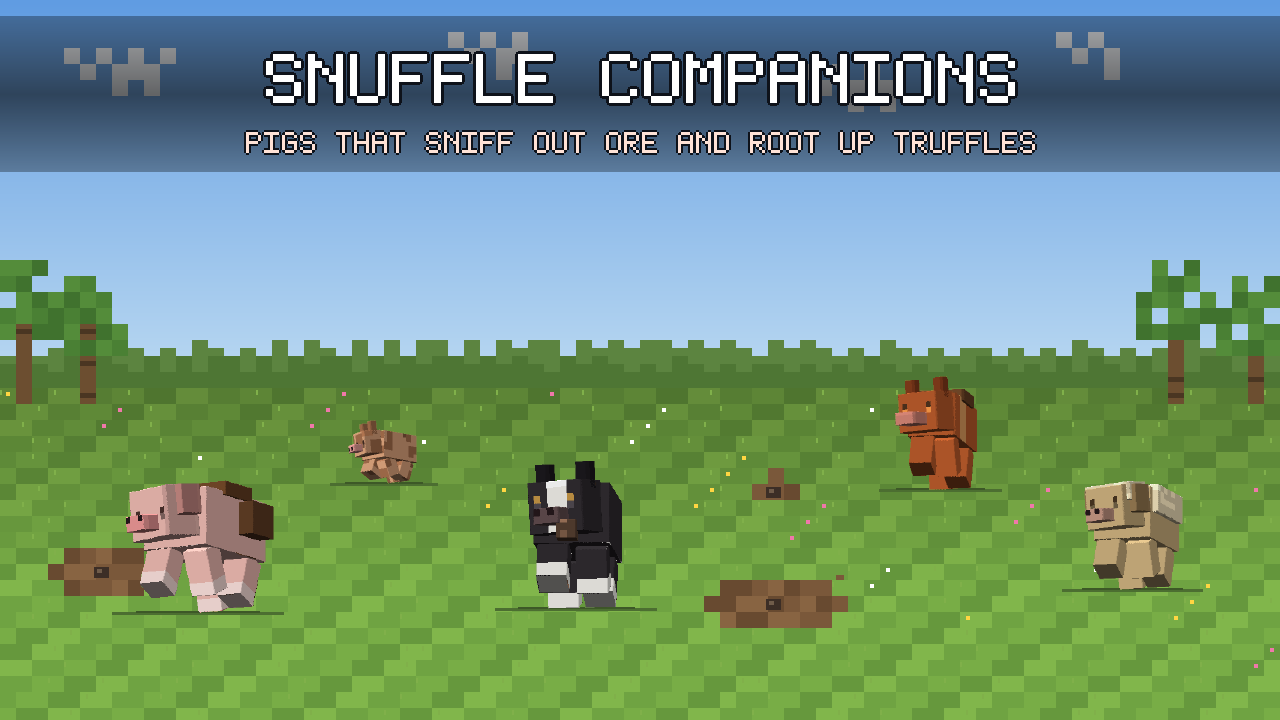
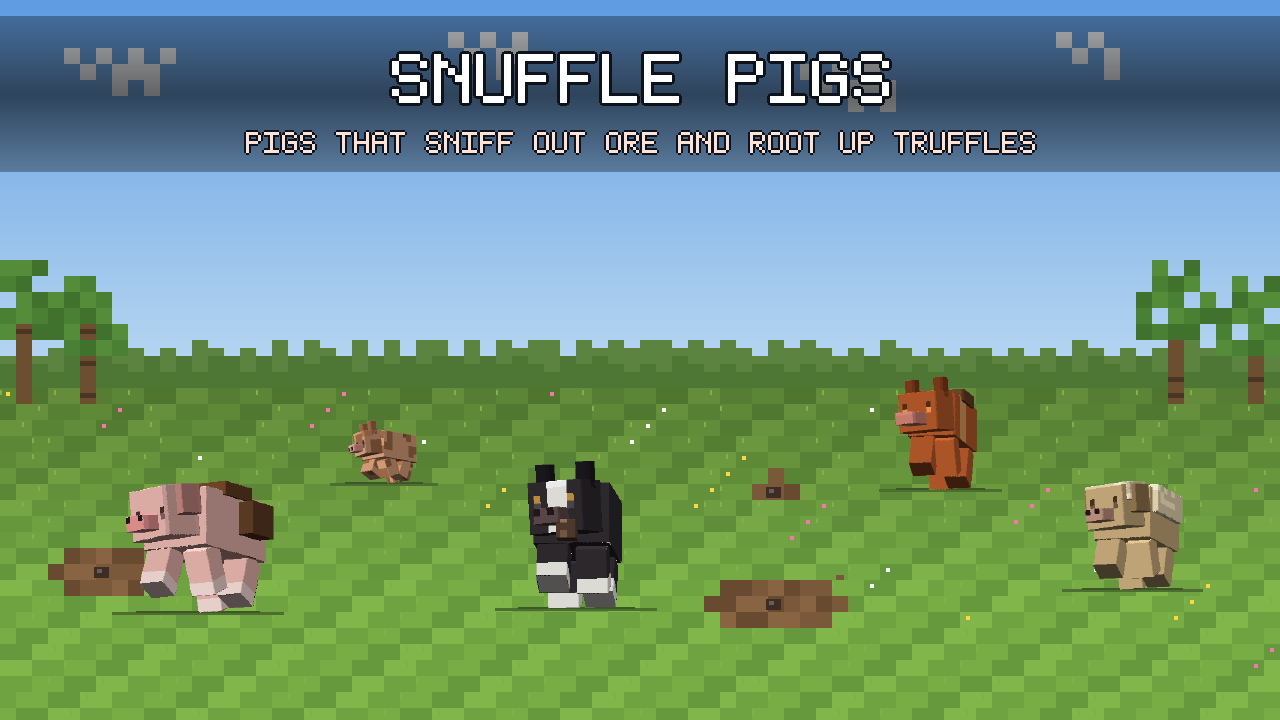
v1.1.0: paketet heter Snuffle Pigs
Det hette Snuffle Companions i spelet och Snuffle Pigs i butiken, och
en sak ska inte ha två namn. Bytt: manifestens namn, hjältebildens
ordmärke, sajtens titel och rubrik, README och butikstexten.

Mapparna, git-repot och domänen behåller sina namn med flit — inget av
det syns för en spelare, och att byta dem hade rört varenda
verktygssökväg och brutit befintliga länkar för noll vinst.

Två ställen hade namnet hårdkodat och hade överlevt bytet tyst:
.mcaddon-filnamnet (butiken hade visat en fil med det gamla namnet) och
testets kontroll av att paketet laddats — den hade rapporterat 'paketet
laddades INTE' om en frisk körning. Båda läser manifestet nu.

Changed region(s): [[0.1875, 0.0611, 0.5625, 0.1528], [0.5938, 0.0611, 0.8125, 0.1528]]

diff --git a/site/index.html b/site/index.html
@@ -1,8 +1,8 @@
 <!DOCTYPE html><html lang="en"><head><meta charset="utf-8">
 <meta name="viewport" content="width=device-width,initial-scale=1">
-<title>Snuffle Companions — Minecraft Bedrock add-on</title>
+<title>Snuffle Pigs — Minecraft Bedrock add-on</title>
 <meta name="description" content="Five hand-made pigs for Minecraft Bedrock. They sniff out ore through solid rock, root up truffles and carry you — with steering that actually works.">
-<meta property="og:title" content="Snuffle Companions">
+<meta property="og:title" content="Snuffle Pigs">
 <meta property="og:description" content="Five hand-made pigs for Minecraft Bedrock — they smell ore through rock, dig up truffles and can be ridden properly.">
 <meta property="og:image" content="logo.png">
 <link rel="icon" type="image/png" href="favicon.png">
@@ -42,8 +42,8 @@ footer a{color:#e0a992}
 </style></head><body><div class="w">
 
 <header>
-<img class="logga" src="logo.png" alt="Snuffle Companions">
-<h1>Snuffle Companions</h1>
+<img class="logga" src="logo.png" alt="Snuffle Pigs">
+<h1>Snuffle Pigs</h1>
 <p class="tag">Five hand-made pigs for Minecraft Bedrock</p>
 </header>
 

diff --git a/tools/make_promo.py b/tools/make_promo.py
@@ -178,8 +178,8 @@ def ordmarke(img):
             m = 0.40 + 0.34 * (1 - k)
             img[y][x] = (int(p[0] * m), int(p[1] * m), int(p[2] * m), 255)
     for dx, dy in ((-3, 0), (3, 0), (0, -3), (0, 3), (-2, -2), (2, -2), (-2, 2), (2, 2)):
-        mv.text(img, "SNUFFLE COMPANIONS", W // 2 + dx, 54 + dy, 7, (14, 18, 26, 255))
-    mv.text(img, "SNUFFLE COMPANIONS", W // 2, 54, 7, (255, 255, 255, 255))
+        mv.text(img, "SNUFFLE PIGS", W // 2 + dx, 54 + dy, 7, (14, 18, 26, 255))
+    mv.text(img, "SNUFFLE PIGS", W // 2, 54, 7, (255, 255, 255, 255))
     for dx, dy in ((-2, 0), (2, 0), (0, -2), (0, 2)):
         mv.text(img, "PIGS THAT SNIFF OUT ORE AND ROOT UP TRUFFLES",
                 W // 2 + dx, 132 + dy, 3, (14, 18, 26, 255))

diff --git a/CHANGELOG.md b/CHANGELOG.md
@@ -1,5 +1,25 @@
 # Ändringar
 
+## 1.1.0 — 2026-08-27
+
+Paketet heter **Snuffle Pigs** nu, samma namn som på CurseForge. Det hette
+"Snuffle Companions" i spelet och "Snuffle Pigs" i butiken, och en sak ska inte
+ha två namn.
+
+Bytt: manifestens namn (det spelet visar i paketlistan), hjältebildens ordmärke,
+sajtens titel och rubrik, README och butikstexten.
+
+Oförändrat med flit: mapparna heter fortfarande `SnuffleCompanions_BP` och
+`_RP`, git-repot `snuffle-companions` och domänen `snuffle.pelleops.se`. Inget
+av det syns för en spelare, och att byta dem hade rört varenda verktygssökväg
+och brutit befintliga länkar för noll vinst.
+
+Två ställen hade namnet HÅRDKODAT och hade överlevt bytet tyst:
+`.mcaddon`-filnamnet i leveranskedjan (butiken hade visat en fil med det gamla
+namnet) och testets kontroll av att paketet laddats — den hade letat efter ett
+namn som inte längre finns och rapporterat "paketet laddades INTE" om en helt
+frisk körning. Båda läser manifestet nu.
+
 ## 1.0.3 — 2026-08-26
 
 Första versionen på CurseForge (projekt 1665452).

diff --git a/publish/store.md b/publish/store.md
@@ -1,10 +1,10 @@
 # Butikspaket — CurseForge och MCPEDL
 
-Allt som behövs för att lägga upp Snuffle Companions. Ingenting här är
+Allt som behövs för att lägga upp Snuffle Pigs. Ingenting här är
 publicerat; uppladdningen sker först när du säger till.
 
 ## Namn
-Snuffle Companions
+Snuffle Pigs
 
 ## Summary (en rad)
 Five hand-made pigs that smell ore through rock, root up truffles and carry you.

diff --git a/publish/release-notes.md b/publish/release-notes.md
@@ -1,5 +1,13 @@
 # Release notes
 
+## 1.1.0
+
+The pack is now called **Snuffle Pigs**, the same name it has in the store. It
+was "Snuffle Companions" inside the game and "Snuffle Pigs" on the shop page,
+and one thing should not have two names.
+
+Nothing else changed: same five pigs, same noses, same saddlebags.
+
 ## 1.0.3
 
 Five hand-made pigs that smell ore through solid rock, root up truffles and

diff --git a/README.md b/README.md
@@ -1,4 +1,4 @@
-# Snuffle Companions
+# Snuffle Pigs
 
 Minecraft **Bedrock**-tillägg: fem handgjorda grisar som **söker**. Systerprojekt
 till [Loyal Companions](https://loyal.pelleops.se) (hundar) och
